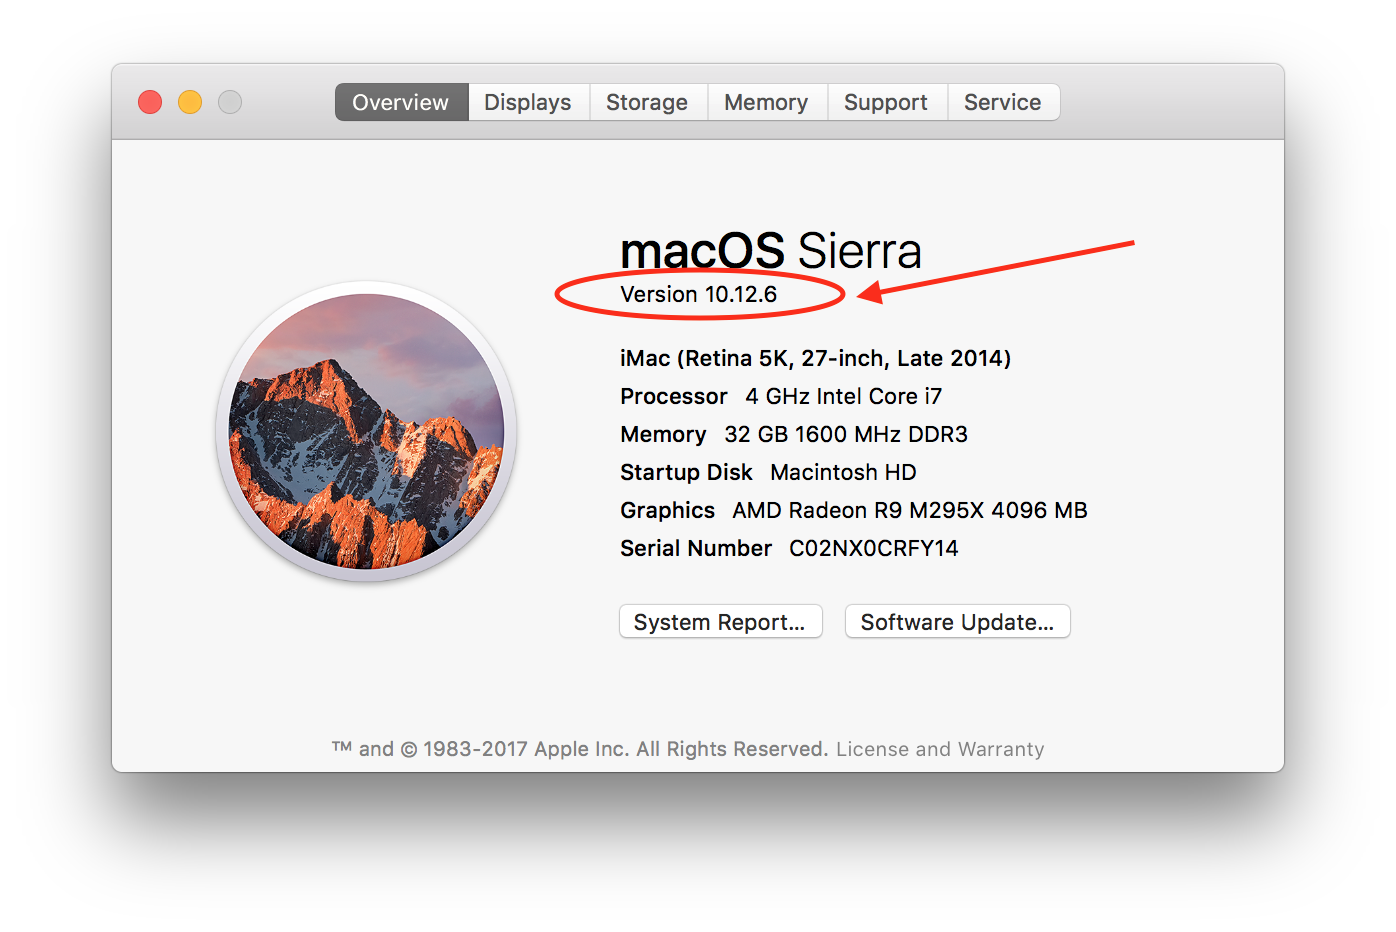
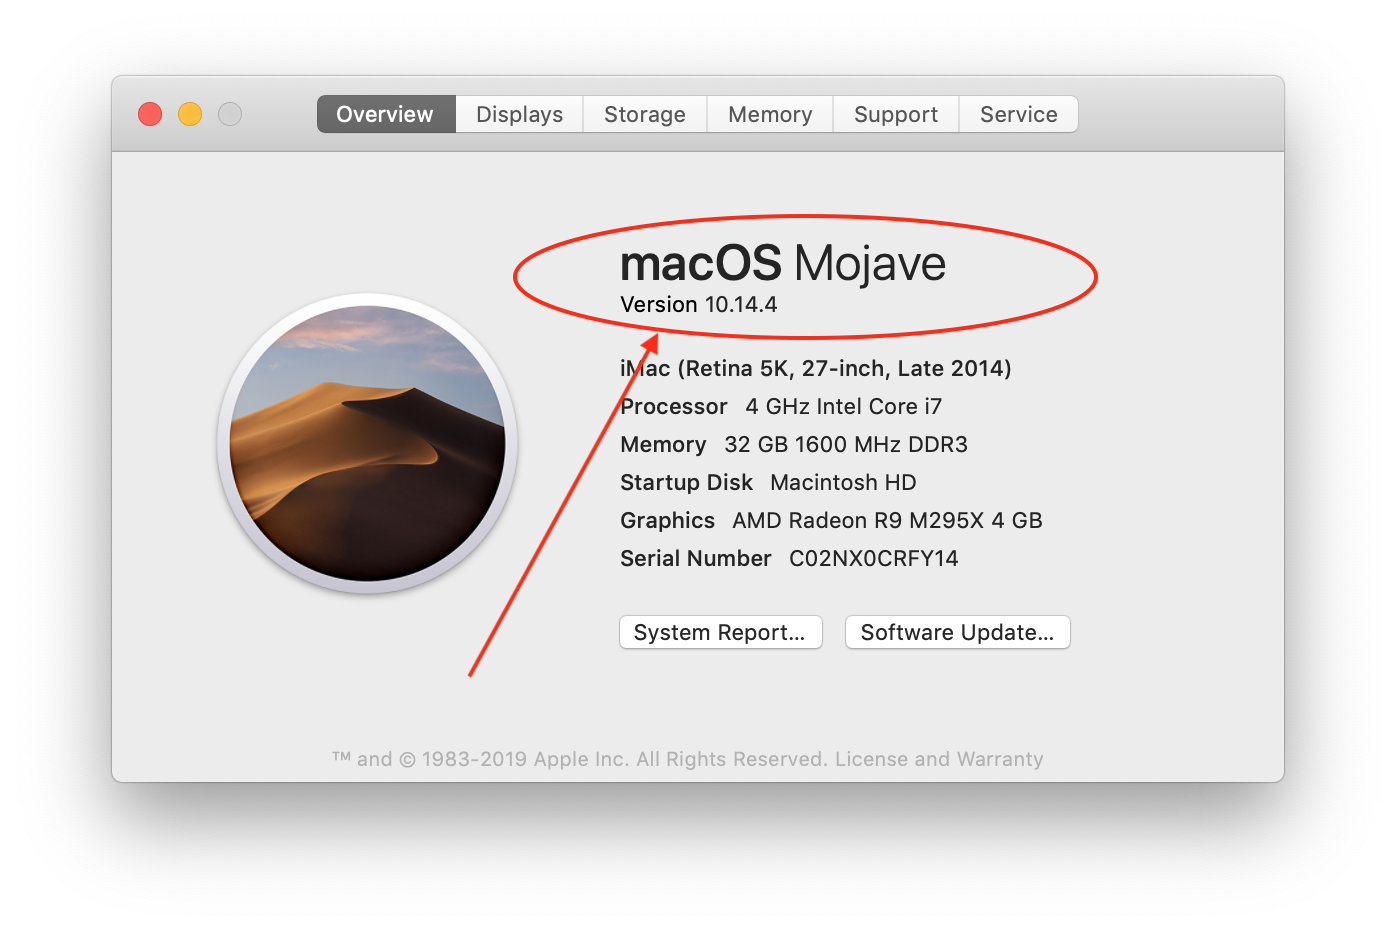
updating for ios 12.2

diff --git a/docs/setup/requirements/computer.md b/docs/setup/requirements/computer.md
@@ -1,29 +1,39 @@
 # Apple Computer
 
-Apple regularly updates their iPhone software (iOS), computer software (macOS) and Xcode application.  Loop's team of developers works hard to update Loop code as the new Apple updates are pushed out.
+Apple regularly updates their iPhone software (iOS), computer software (macOS) and Xcode application.  Loop's developers work hard to update Loop code as the new Apple updates are pushed out.
+
+**Do not install beta releases of Xcode, iOS or macOS on devices running or building Loop.** 
 
 ********
-The most recent version of iOS is 12.1.4
+The most recent version of iOS is 12.2
 
-The most recent version of macOS is 10.14.3
+The most recent version of macOS is 10.14.4
 
-The most recent version of Xcode is 10.1
+The most recent version of Xcode is 10.12.1
 
-The most recent version of Loop is 1.9.4
+The most recent version of Loop is 1.9.5
 
-The most recent version of watchOS is 5.1.3
+The most recent version of watchOS is 5.2
 *********
 
-The way Apple updates tend to happen is that one equipment's update will tend to require updating other pieces of Apple equipment.  For example, if you update your iOS on the iPhone, you may need an updated version of Xcode to install a new Loop app onto your phone.  And the new Xcode will require the volunteer developers of Loop to make updates to the Loop source code.  Finally, new Xcode updates also frequently come with macOS updates on your computer.
+The way Apple updates happen is that one equipment's update will tend to require updating other pieces of Apple equipment. For example, if you update your iOS on the iPhone, you may need an updated version of Xcode to install a new Loop app onto your phone.  And the new Xcode will require the developers of Loop to make updates to the Loop source code.  Finally, new Xcode updates also frequently require macOS updates on your computer.
 
-**Currently, if you have iOS 12 or newer on your iPhone, at a minimum you will need Xcode 10.1 and High Sierra macOS 10.13.6 to be able to build Loop 1.9.4.  Older versions of macOS or Xcode are not compatible with the current Loop version on iOS 12.**
+## When can you use Xcode 10.1 and macOS 10.13.6?
+These versions are being phased out because Apple has moved onto newer versions. For now, if you can't upgrade your Apple computer to Mojave (and are stuck at macOS 10.13.6), you can still build so long as you:
 
-Do not install beta releases of Xcode, iOS or macOS on devices running Loop.  
+* Use Loop master branch (so you will be able to use Omnipod Loop or Loop dev branches)
+* Have not updated your iPhone to iOS 12.2
 
-If you are considering an update to your Loop app, check to make sure your computer and Xcode have any available updates installed prior to building the new app.
+If you want to use omnipod or Loop-dev branches, you will have to use Mojave macOS and Xcode 10.2.
+If you updated your iPhone to iOS 12.2, you will also have to use Mojave macOS and Xcode 10.2
 
+## Omnipod and dev users
+In order to build Omnipod Loop, you will be required to use macOS 10.4.3 (Mojave) and Xcode 10.2 at a minimum. The version of Loop that supports Omnipod and Loop's dev branch both require the updated versions of macOS and Xcode.
+
+## Computer access
 Computer access is only required when you are initially installing the Loop app, updating to a newer release, or making changes to the underlying Loop code.  You do NOT need access to an Apple computer in order to troubleshoot or change Loop settings, such as basal profiles or carb ratios.
 
+## Finding your macOS version
 Where can you find your computer’s macOS version?  Click on the Apple icon in the upper left corner of your Mac’s display.  Select “About This Mac” from the dropdown menu, and it will display the macOS version number.
 
 <p align="center">
@@ -32,4 +42,3 @@ Where can you find your computer’s macOS version?  Click on the Apple icon in 
 
 If your computer is running an out-of-date macOS, you can read whether you can upgrade to the latest macOS version [here](http://www.apple.com/macos/how-to-upgrade/#hardware-requirements).  The degree to which you can upgrade an older Apple computer will depend on the age and model of the computer.
 
-Please note that for now, Xcode 10.1 will still install on computers using the last High Sierra update (macOS 10.13.6).  This will inevitably change in the near future, as Mojave has replaced High Sierra for Apple's most recent macOS system.  Therefore, Mojave (macOS 14) will eventually be a minimum requirement to build Loop app, likely with the next major Xcode update.  

diff --git a/docs/setup/requirements/iphone.md b/docs/setup/requirements/iphone.md
@@ -1,6 +1,6 @@
 # iPhone or iPod Touch
 
-Loop will run on on any iPhone or iPod Touch that is running iOS 11.1 or later, but the most current version is iOS 12.1.4. Therefore, compatible devices include:
+Loop will run on on any iPhone or iPod Touch that is running iOS 12 or later, but the most current version is iOS 12.2. Therefore, compatible devices include:
 
 * iPhone X, XS, XR, XS Max
 
@@ -16,11 +16,17 @@ Loop will run on on any iPhone or iPod Touch that is running iOS 11.1 or later, 
 
 * iPod Touch, 6th generation or newer
 
-Does Loop work on iPads? No. Loop needs Apple's Health app to be on the device in order for Loop to access and store your insulin, blood glucose, and carbohydrate data for looping. Therefore, Loop does not work on iPads because they do not have Health capabilities.
+!!!info "Attention: iOS 12.2 users"
+    If you are using iOS 12.2, you will need to use macOS 10.14.3 (Mojave) and Xcode 10.2 at a minimum.
 
-Does Loop work on Android phones? No. Loop is written in Swift language for iOS devices, and needs Health integration (see comment above about iPads).
+## Does Loop work on iPads? 
+No. Loop needs Apple's Health app to be on the device in order for Loop to access and store your insulin, blood glucose, and carbohydrate data for looping. Therefore, Loop does not work on iPads because they do not have Health capabilities.
 
-Where can you find your iPhone’s iOS version?  Go to your iPhone’s Settings>General>About.  The iOS will be listed under “Version”
+## Does Loop work on Android phones? 
+No. Loop is written in Swift language for iOS devices, and needs Health integration (see comment above about iPads).
+
+## Where can you find your iPhone’s iOS version?  
+Go to your iPhone’s Settings>General>About.  The iOS will be listed under “Version”
 
 <p align="center">
 <img src="../img/ios.png" width="250">

diff --git a/docs/operation/loop-settings/cgm.md b/docs/operation/loop-settings/cgm.md
@@ -39,4 +39,4 @@ Users who are using Spike app to access other CGM types (or to avoid using the D
 
 ## Next Step: Configuration
 
-Now that you have added your CGM source, we need to complete the configuration and settings in your Loop. Please head over to the [Configuration page](https://loopkit.github.io/loopdocs/operation/loop-settings/configuration) for guidance with this important part of Loop's setup.
+Now that you have added your CGM source, we need to complete the configuration and settings in your Loop. Please head over to the [Configuration page](https://loopkit.github.io/loopdocs/operation/loop-settings/configurations/) for guidance with this important part of Loop's setup.
